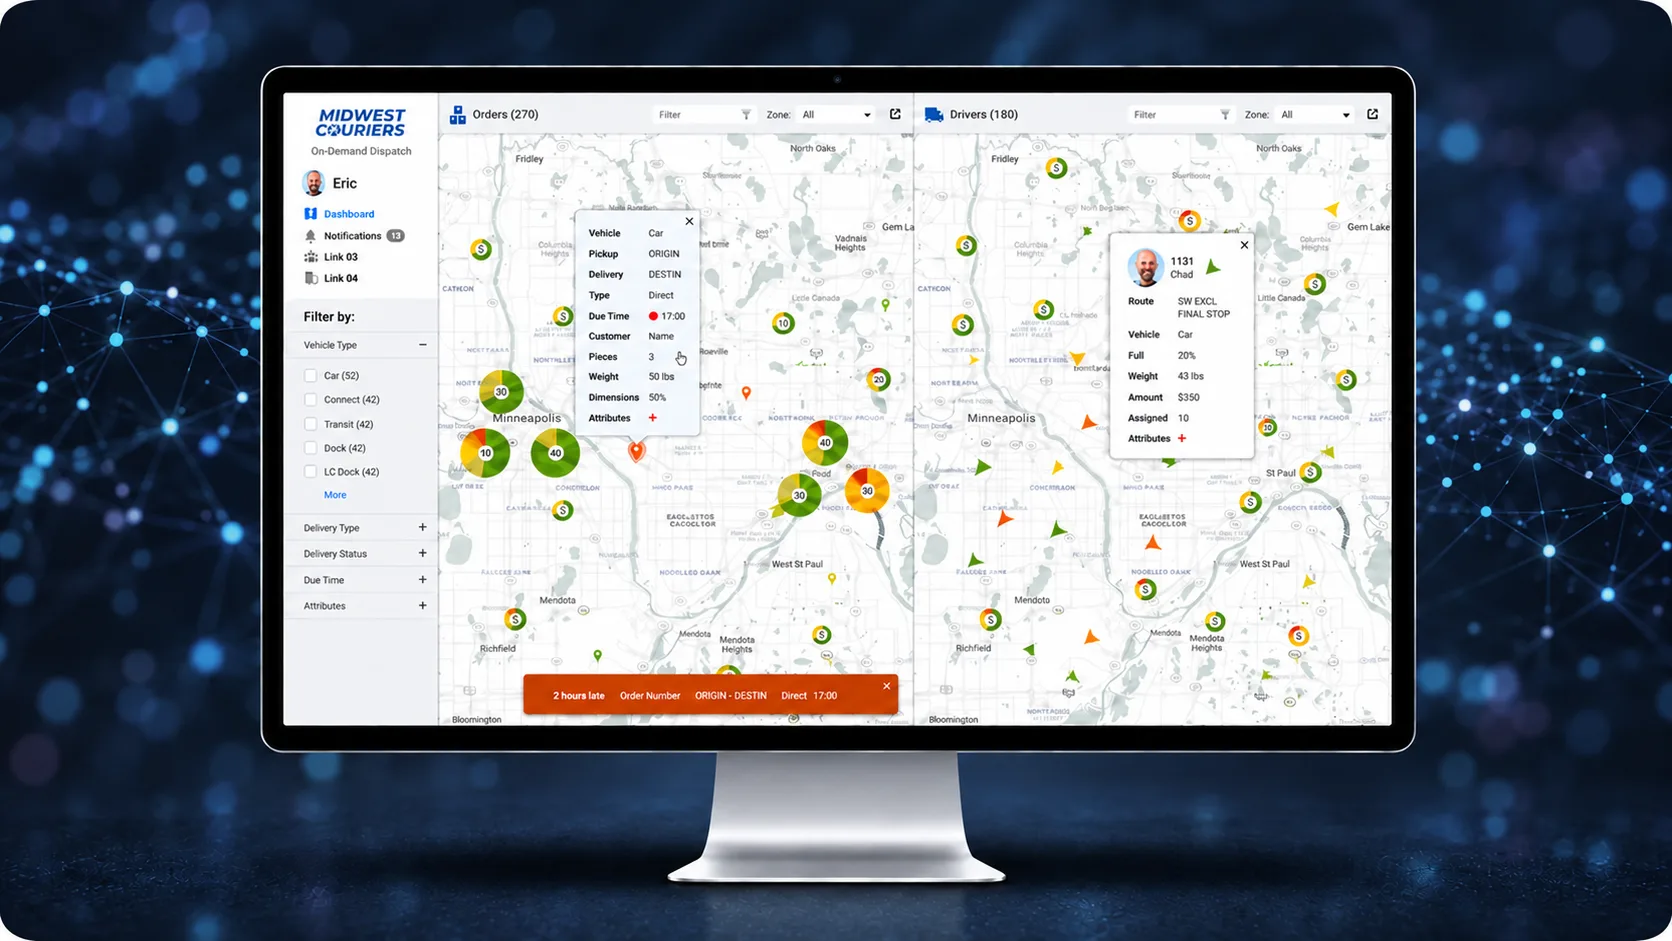
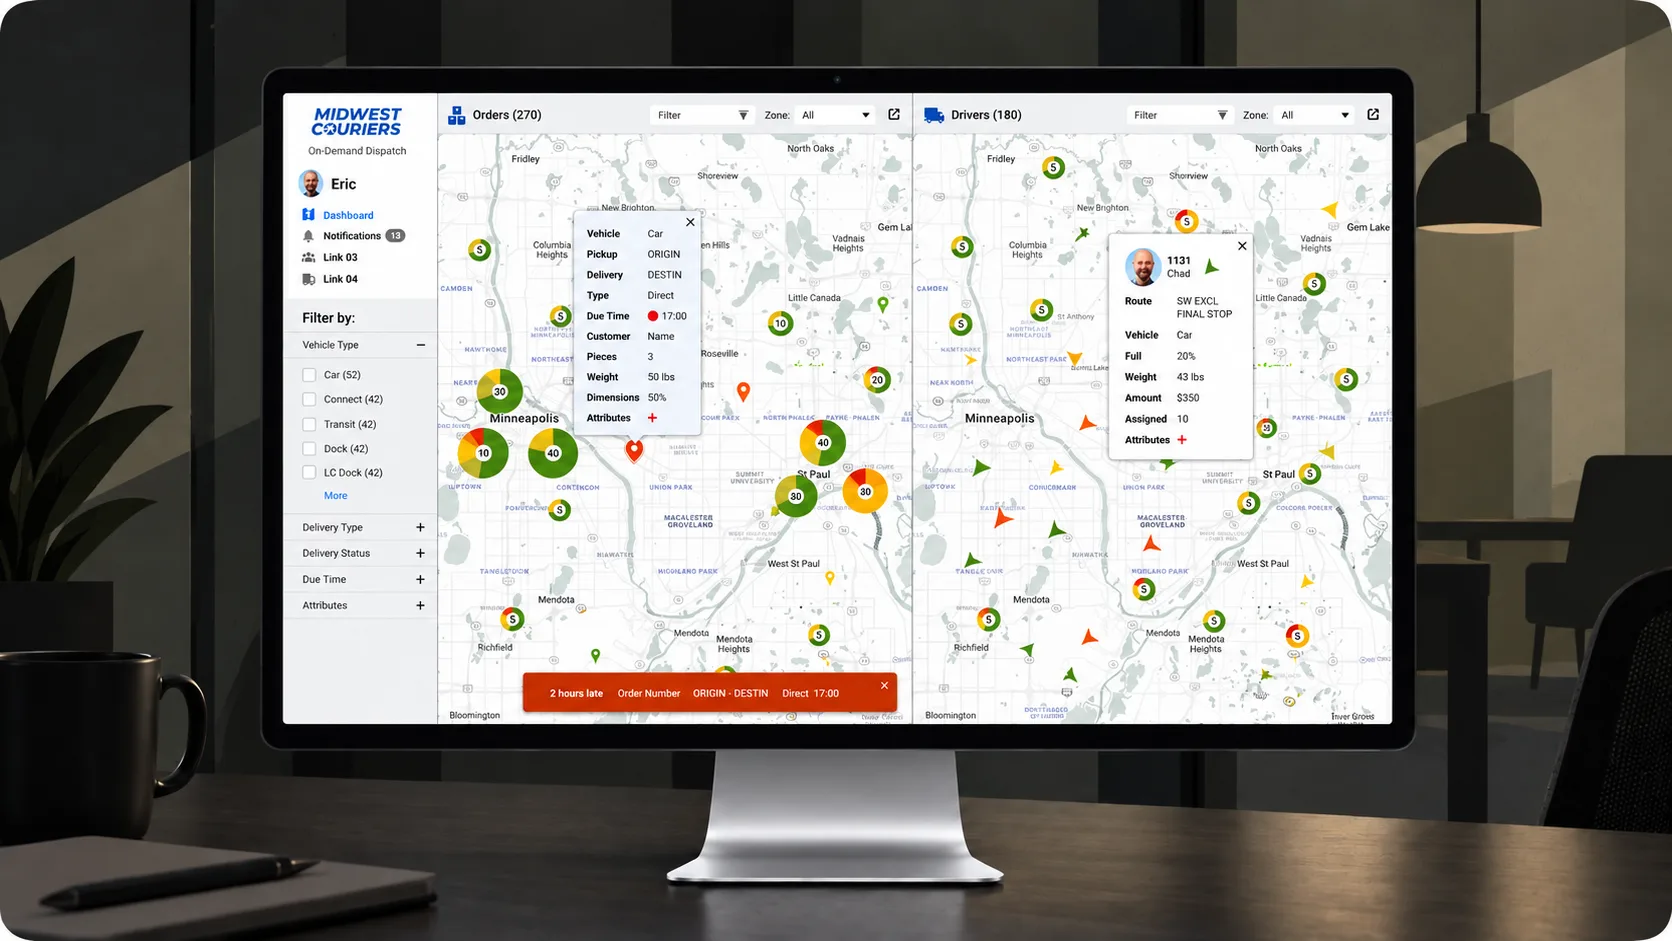
The Midwest Couriers thumbnail takes a warm office ground
Same 1672x941 screen, same composition, a desk and window behind it
in place of the blue network field. Encoded through Chromium at 0.82,
the screen-capture family's constant, 128698 -> 117068 bytes.
Cache-buster to v=5, because the path did not move but the bytes did.

resting.mjs and states.mjs on index.html both pass at the counts they
had before the swap: 1434 resting measurements, 344 state measurements
across 218 rules, three pages each.

diff --git a/index.html b/index.html
@@ -433,7 +433,7 @@
 
           <a class="case-card reveal" href="case-study/dispatch-complexity.html" aria-label="View case study: One real-time view of a 450+ truck fleet">
             <div class="case-thumb">
-              <img decoding="async" loading="lazy" src="img/site/dispatch-hero-01.webp?v=4" alt="One real-time view of a 450+ truck fleet" width="1672" height="941"/>
+              <img decoding="async" loading="lazy" src="img/site/dispatch-hero-01.webp?v=5" alt="One real-time view of a 450+ truck fleet" width="1672" height="941"/>
             </div>
             <h3>One real-time view of a 450+ truck fleet</h3>
             <p class="case-desc">A complicated operation learned from the floor: cards built for the speed of the dispatchers, and the map I was wrong about.</p>
